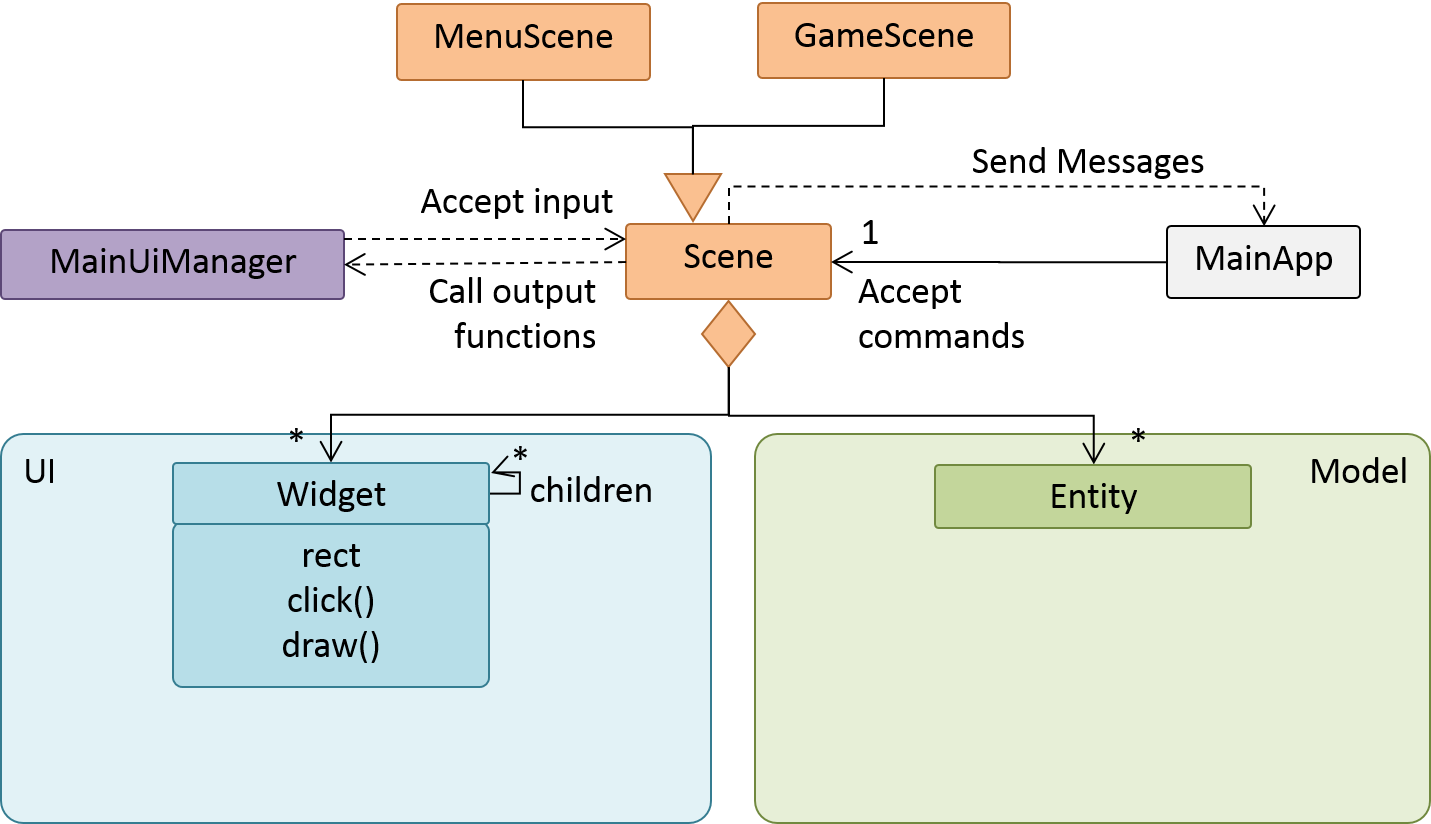
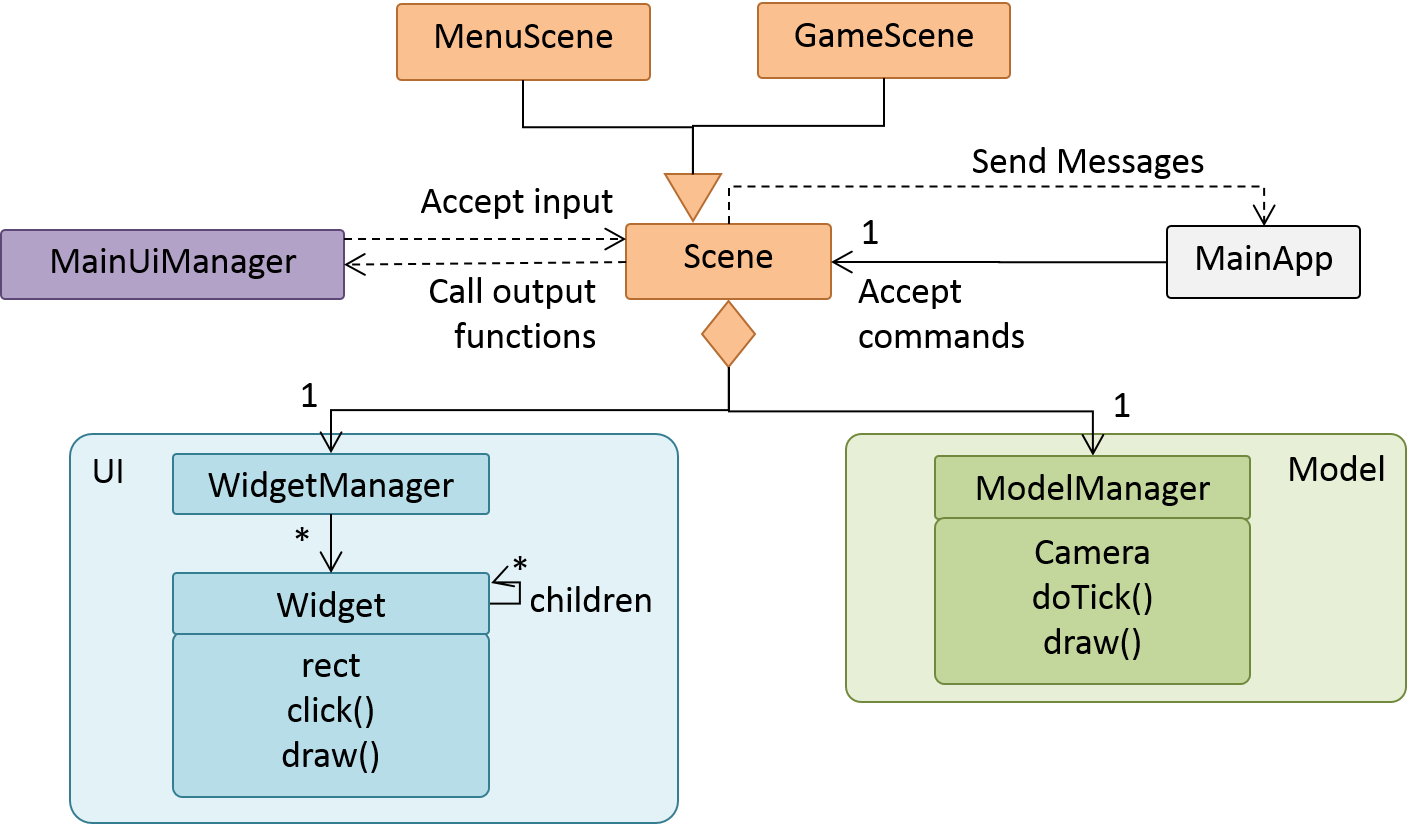
Update docs on Model changes

diff --git a/docs/guide.md b/docs/guide.md
@@ -18,11 +18,21 @@ Windows:
 
 ### Verifying the setup
 - Run the program and interact with it using the mouse and keyboard.
-	- Currently, <kbd>Q</kbd> switches between the Menu and Game Scenes, as does clicking the Widget at the topleft of the screen.
+	- Currently, <kbd>Q</kbd> switches between the `MenuScene` and `GameScene`, as does clicking the Widget at the topleft of the screen.
+	- In the `GameScene`, there are three entities. The center entity is player-controlled.
+		- <kbd>SPACE</kbd> pauses/unpauses the game.
+		- <kbd>W</kbd><kbd>A</kbd><kbd>S</kbd><kbd>D</kbd> or <kbd>↑</kbd><kbd>↓</kbd><kbd>←</kbd><kbd>→</kbd> moves the player.
+		- The player can bump the other two entities by moving into them.
+		- The mouse can held down to make the player fire projectiles in the direction of the mouse. These projectiles can be fired at the other two entities to damage and eventually kill them. When killed, the entities explode into particles.
+		- The mouse can also be used to hover over and click on the widgets on the left of the screen. Clicking them spawns particles.
+		- The mouse may also be moved to the edges of the screen to pan the camera.
+		- The camera can also be zoomed in and out by scrolling the mouse wheel.
+		- The camera can be reset by clicking the mouse wheel.
 
 
 
 ## Design
+
 ### Architecture
 ![](ArchitectureDiagram.png)
 
@@ -58,14 +68,23 @@ The `MainUiManager` relies on SDL and OpenGL to perform its duties.
 ### Scene
 ![](SceneClassDiagram.png)
 
-The `Scene` is the core of the game. It is conceptually split into two sections: The UI and the Model. Despite this split, there is no technical barrier and they are not actual classes, as the UI section heavily reads from and writes to the Model section. The Model section may furthermore accept input and write output on its own.
+The `Scene` is the core of the game. It is conceptually split into two sections: The UI - handled by the `WidgetManager` - and the Model - handled by the `ModelManager`.
 
-There are different derivatives of `Scene`, corresponding what what environments the player might encounter while navigating the app. In particular, there is a `MenuScene` - meant to be the environment of the main menu and game lobby, and a `GameScene` - meant to be the actual game environment. The `MainApp` tracks one `Scene`, which it can construct and destruct as needed.
+Furthermore, There are different derivatives of `Scene`, corresponding what what environments the player might encounter while navigating the app. In particular, there is currently a `MenuScene` - the environment of the main menu and game lobby, and a `GameScene` - the actual game environment. The `MainApp` tracks one `Scene`, which it can construct and destruct as needed.
 
-The Model contains the actual state of the game, as well as methods to update them. While the `GameScene` makes the heaviest use of the Model, other `Scene`s may also use the Model to display backdrops and animations.
-
-The UI section serves two purposes: To define how input from `MainUiManager` is interpreted into actions that affect the Model, and to define how the Model is represented in terms of output to `MainUiManager`. It achieves this through the use of `Widget`s, which together build up a GUI.
+The `Scene` has three external functionalities:
+- Accept user input and interpret them into actions on itself, based on its current state. User input is in terms of keyboard and mouse events and state, and would typically be called from the `MainUiManager`, although they can technically be called from anywhere.
+- Update its internal state (by one game tick).
+- Tell a `MainUiManager` how to draw its state.
 
 #### Widgets
+The `WidgetManager` handles the GUI of the `Scene`. The GUI is defined in terms of `Widget`s. `Widget`s essentially define a region in screen space. They may have a defined action upon being clicked, and also have a defined draw function to visually indicate where they are when the app runs. They can be used to display information such as text, or provide a region for the player to click in order to activate a certain function. `Widget`s are fixed to the screen space; they move around with the in-game camera. `Widget`s are always drawn on top of any other object from the Model.
 
-`Widget`s essentially define a region in screen space. They may have a defined action upon being clicked, and also have a defined draw function to visually indicate where they are when the app runs. They can be used to display information such as text, or provide a region for the player to click in order to activate a certain function. `Widget`s are fixed to the screen space; they move around with the in-game camera. `Widget`s are always drawn on top of any other object from the Model.
+#### Model
+![](ModelClassDiagram.png)
+
+The Model contains the actual state of the game, as well as methods to interact with, update and draw them. The parent `Scene` may pass commands to the Model directly, or it may also pass user input to the `WidgetManager` which would then translate them into Model commands.
+
+While the `GameScene` makes the heaviest use of the Model, other `Scene`s may also use the Model to display backdrops and animations.
+
+The `ModelManager` is a base class that tracks camera and timing information about the game state, and defines methods on camera manipulation, conversion between game and screen coordinates, drawing to the screen, and updating its own state based on input or a game tick. Its derivatives would track actual game entities using `EntityManager`s, and define further methods to manipulate the game entities, such as spawning new entities.
